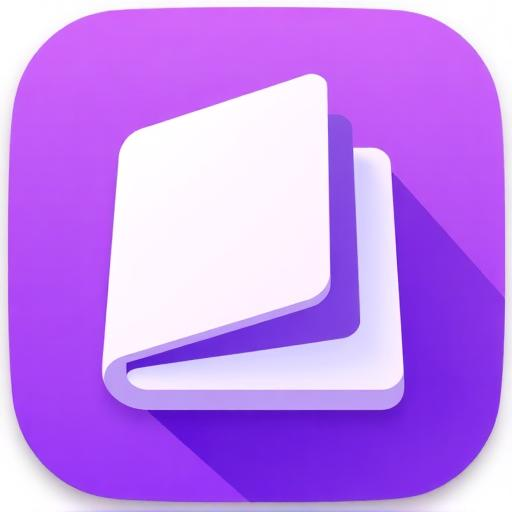
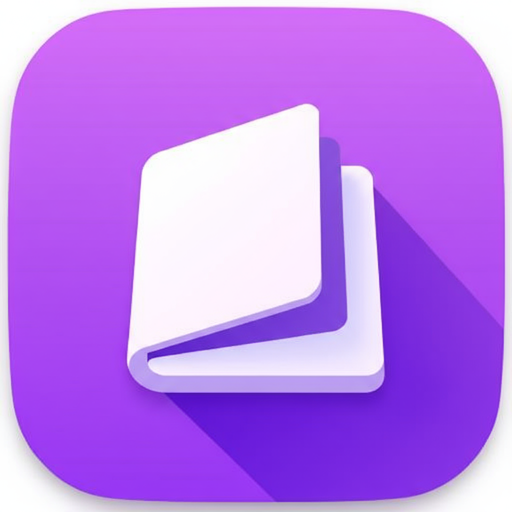
Preparar assets para publicação: ícones, manifest e versão (#113)
* Unificar registro de estudo com ranking de desafios

- challenge_ranking passa a somar também goal_progress_events (registros
  manuais de exercícios/páginas na aba de metas)
- Cronômetro ganha campos opcionais de páginas lidas e exercícios
  resolvidos, gravados em study_sessions
- Ranking do desafio invalida em tempo real também para eventos de
  progresso manual

Claude-Session: https://claude.ai/code/session_01JrYc9MLMhtqTgpSCuu77aM

* Atualizar types.ts do Supabase com tabelas competitivas e corrigir tipos

Regenera os tipos das tabelas que faltavam (desafios, temporadas, ligas,
XP, streaks, avatares) e das funções RPC (challenge_ranking,
finish_challenge, period_leaderboard, league_leaderboard). Corrige também
o acesso a payload.new nos callbacks de realtime e o mutate do desafio.

Zera os 61 erros de typecheck que existiam no projeto.

Claude-Session: https://claude.ai/code/session_01JrYc9MLMhtqTgpSCuu77aM

* Preparar assets para publicação: corrigir ícones, manifest e versão

- Regenera ícones nos tamanhos corretos a partir do master 1024px
  (icon-192 era 1024px/652KB; icon-512 era JPEG renomeado para .png)
- Adiciona icon-1024 e apple-touch-icon; favicon multi-resolução
- Enriquece o manifest PWA (scope, orientation, lang, categories,
  ícone maskable dedicado) e ajusta os links no index.html
- Sobe a versão do app para 1.0.0

Claude-Session: https://claude.ai/code/session_01JrYc9MLMhtqTgpSCuu77aM

---------

Changed region(s): [[0.1875, 0.125, 1.0, 1.0], [0.7188, 0.9688, 0.75, 1.0]]

diff --git a/index.html b/index.html
@@ -25,8 +25,9 @@
     <meta name="twitter:description" content="Estude em grupo, dispute rankings e ligas e vença desafios com seus amigos no Grupo Estuda." />
     <meta name="twitter:image" content="/icon-512.png" />
     
-    <link rel="icon" href="/icon-192.png" />
-    <link rel="apple-touch-icon" href="/icon-192.png" />
+    <link rel="icon" href="/favicon.ico" sizes="any" />
+    <link rel="icon" type="image/png" href="/icon-192.png" sizes="192x192" />
+    <link rel="apple-touch-icon" href="/apple-touch-icon.png" />
     <link rel="manifest" href="/manifest.json" />
   </head>
 